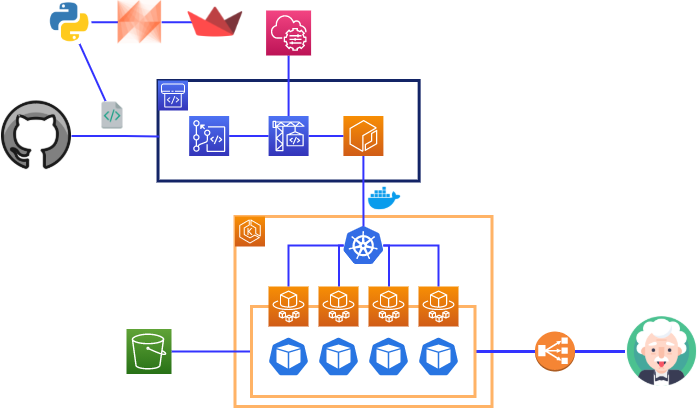
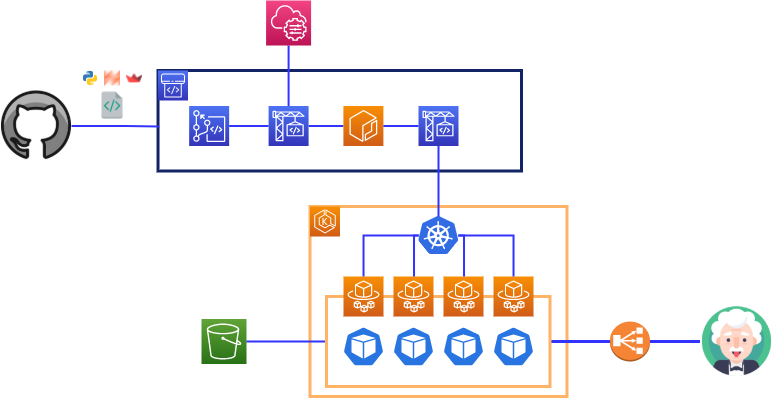
(main) screenshots updated

Changed region(s): [[0.0, 0.0, 1.0, 1.0]]

diff --git a/cloudformation/apps/data-app-code/code/app.py b/cloudformation/apps/data-app-code/code/app.py
@@ -146,8 +146,6 @@ st.markdown(f""" <style>
 # ------------------------------------------------------------------------------------------------------------------------
 # Main
 
-st.write('update testing CI/CD - update 16h50')
-
 generate_page_header()
 
 title("Architecture",35,"center","white")

diff --git a/README.md b/README.md
@@ -52,15 +52,11 @@ The pipeline is composed of 4 AWS tools:
 
 The workflow in short can be reflected by the following steps:
 
-Pipeline A - Docker image building
 - code pushed to AWS CodeCommit repository
     - AWS CodeBuild gets the updates from the branch and build a new Docker image, by reading the buildspec.yml file
         - The image is stored in Amazon ECR repository
-
-Pipeline B - Deployment into Kubernetes cluster
-- a new version of the 'latest' image is posted into Amazon ECR repository
-    - AWS CodeBuild gets the new image and deploy into the EKS cluster, by reading the buildspec_deployment.yml and deployment.yaml files
-        - The Pods are created in the cluster, along the Service (ELB) and Horizontal Auto Scaling
+            - AWS CodeBuild gets the new image and deploy into the EKS cluster, by reading the buildspec_deployment.yml and deployment.yaml files
+                - The Pods are created in the cluster, along the Service (ELB) and Horizontal Auto Scaling
 
 
 # How To
